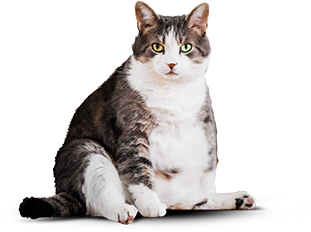
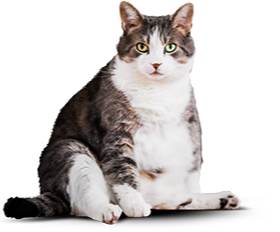
Исправил замечания в стилизации главной страницы

diff --git a/source/index.html b/source/index.html
@@ -2,6 +2,7 @@
 <html class="page" lang="ru">
   <head>
     <meta charset="utf-8">
+    <meta name="viewport" content="width=device-width, initial-scale=1">
     <title>HTML Academy: Кэт энерджи</title>
     <link rel="stylesheet" href="css/style.css">
   </head>
@@ -122,7 +123,7 @@
           </div>
           <div class="example__img">
             <img class="example__before" src="img/cat-after.png" width="251" height="240" alt="Кот до питания Cat Energy">
-            <img class="example__after" src="img/cat-before.png" width="311" height="232" alt="Кот после питания Cat Energy">
+            <img class="example__after" src="img/cat-before.png" width="280" height="232" alt="Кот после питания Cat Energy">
           </div>
           <div class="example__comparison">
             <span class="example__text">Было</span>
@@ -134,7 +135,7 @@
     </main>
 
     <footer class="page-footer">
-      <div class="page-footer__wrapper">
+      <div class="page-footer__top">
         <div class="page-footer__contacts">
           <p class="page-footer__invitation">
             Приглашаем<br>
@@ -146,9 +147,11 @@
             <span>Санкт-Петербург</span>
           </p>
         </div>
-        <div class="page-footer__map">
-          <img src="img/map-office.png" width="320" height="362" alt="Мы на карте">
-        </div>
+      </div>
+      <div class="page-footer__map">
+        <img src="img/map-office.png" width="320" height="362" alt="Мы на карте">
+      </div>
+      <div class="page-footer__bottom">
         <a class="page-footer__logo">
           <img src="img/footer__logo.svg" width="128" height="24" alt="Cat Energy">
         </a>

diff --git a/source/catalog.html b/source/catalog.html
@@ -2,6 +2,7 @@
 <html class="page" lang="ru">
   <head>
     <meta charset="utf-8">
+    <meta name="viewport" content="width=device-width, initial-scale=1">
     <title>HTML Academy: Кэт энерджи</title>
     <link rel="stylesheet" href="css/style.css">
   </head>
@@ -270,7 +271,7 @@
     </main>
 
     <footer class="page-footer">
-      <div class="page-footer__wrapper">
+      <div class="page-footer__top">
         <div class="page-footer__contacts">
           <p class="page-footer__invitation">
             Приглашаем<br>
@@ -282,9 +283,11 @@
             <span>Санкт-Петербург</span>
           </p>
         </div>
-        <div class="page-footer__map">
-          <img src="img/map-office.png" width="320" height="362" alt="Мы на карте">
-        </div>
+      </div>
+      <div class="page-footer__map">
+        <img src="img/map-office.png" width="320" height="362" alt="Мы на карте">
+      </div>
+      <div class="page-footer__bottom">
         <a class="page-footer__logo">
           <img src="img/footer__logo.svg" width="128" height="24" alt="Cat Energy">
         </a>

diff --git a/source/form.html b/source/form.html
@@ -2,6 +2,7 @@
 <html class="page" lang="ru">
   <head>
     <meta charset="utf-8">
+    <meta name="viewport" content="width=device-width, initial-scale=1">
     <title>HTML Academy: Кэт энерджи</title>
     <link rel="stylesheet" href="css/style.css">
   </head>
@@ -122,7 +123,7 @@
     </main>
 
     <footer class="page-footer">
-      <div class="page-footer__wrapper">
+      <div class="page-footer__top">
         <div class="page-footer__contacts">
           <p class="page-footer__invitation">
             Приглашаем<br>
@@ -134,9 +135,11 @@
             <span>Санкт-Петербург</span>
           </p>
         </div>
-        <div class="page-footer__map">
-          <img src="img/map-office.png" width="320" height="362" alt="Мы на карте">
-        </div>
+      </div>
+      <div class="page-footer__map">
+        <img src="img/map-office.png" width="320" height="362" alt="Мы на карте">
+      </div>
+      <div class="page-footer__bottom">
         <a class="page-footer__logo">
           <img src="img/footer__logo.svg" width="128" height="24" alt="Cat Energy">
         </a>

diff --git a/source/sass/blocks/example.scss b/source/sass/blocks/example.scss
@@ -8,7 +8,7 @@
 }
 
 .example__title {
-  font-family: 'Oswald';
+  font-family: "Oswald", sans-serif;
   font-weight: 400;
   font-size: 36px;
   line-height: 40px;
@@ -21,7 +21,7 @@
 }
 
 .example__value {
-  font-family: 'Oswald';
+  font-family: "Oswald", sans-serif;
   font-weight: 400;
   font-size: 24px;
   line-height: 24px;
@@ -34,15 +34,17 @@
 }
 
 .example__expenses {
-  font-family: 'Oswald';
+  font-family: "Oswald", sans-serif;
   font-weight: 400;
   font-size: 14px;
   line-height: 20px;
   text-transform: uppercase;
+  margin: 0;
+  text-align: center;
 }
 
 .example__text {
-  font-family: 'Oswald';
+  font-family: "Oswald", sans-serif;
   font-weight: 400;
   font-size: 16px;
   line-height: 20px;
@@ -51,8 +53,16 @@
 
 .example__before {
   display: none;
+  width: 100%;
+  object-fit: contain;
 }
 
 .example__after {
-  width: auto;
+  width: 100%;
+  object-fit: contain;
+}
+
+.example__comparison {
+  display: flex;
+  justify-content: center;
 }

diff --git a/source/sass/blocks/intro.scss b/source/sass/blocks/intro.scss
@@ -1,7 +1,8 @@
 .intro {
-  background-image: linear-gradient(rgba($basic_green, 0.85), rgba($basic_green, 0.85)), url('../../img/intro-background.jpg');
+  background-image: linear-gradient(rgba($basic_green, 0.85), rgba($basic_green, 0.85)), url("../../img/intro-background.jpg");
   background-repeat: no-repeat;
-  background-size: 100% 302px;
+  background-size: auto 302px;
+  background-position: top;
 }
 
 .intro__wrapper {
@@ -10,21 +11,25 @@
 }
 
 .intro__header {
-  font-family: 'Oswald';
+  font-family: "Oswald", sans-serif;
   font-weight: 400;
   color: $basic-white;
+  padding-top: 27px;
 }
 
 .intro__title {
   font-weight: 400;
   font-size: 36px;
   line-height: 36px;
+  margin: 0;
+  text-align: center;
 }
 
 .intro__slogan {
   font-size: 14px;
   line-height: 14px;
   text-transform: uppercase;
+  text-align: center;
 }
 
 .intro__button {

diff --git a/source/sass/global/fonts.scss b/source/sass/global/fonts.scss
@@ -1,19 +1,19 @@
 @font-face {
-  font-family: 'Oswald';
+  font-family: "Oswald";
   font-weight: 400;
   font-style: normal;
   font-display: swap;
   src:
-    url('../../fonts/oswaldregular.woff2') format("woff2"),
-    url('../../fonts/oswaldregular.woff') format("woff");
+    url("../../fonts/oswaldregular.woff2") format("woff2"),
+    url("../../fonts/oswaldregular.woff") format("woff");
 }
 
 @font-face {
-  font-family: 'Oswald';
+  font-family: "Oswald";
   font-weight: 500;
   font-style: normal;
   font-display: swap;
   src:
-    url('../../fonts/oswaldmedium.woff2') format("woff2"),
-    url('../../fonts/oswaldmedium.woff') format("woff");
+    url("../../fonts/oswaldmedium.woff2") format("woff2"),
+    url("../../fonts/oswaldmedium.woff") format("woff");
 }

diff --git a/source/sass/blocks/page-footer.scss b/source/sass/blocks/page-footer.scss
@@ -1,10 +1,11 @@
-.page-footer__wrapper {
+.page-footer__top,
+.page-footer__bottom {
   padding: 0 20px;
   margin: 0 auto;
 }
 
 .page-footer__invitation {
-  font-family: 'Oswald';
+  font-family: "Oswald", sans-serif;
   font-weight: 400;
   font-size: 16px;
   line-height: 18px;
@@ -17,9 +18,25 @@
   color: $special_dark-grey;
 }
 
+.page-footer__map {
+  img {
+    width: 100%;
+    object-fit: cover;
+  }
+}
+
+.page-footer__logo {
+  img {
+    display: block;
+    margin: 0 auto;
+  }
+}
+
 .page-footer__copyright {
   a {
-    color: $special_grey-2;
+    font-size: 16px;
+    line-height: 18.4px;
+    color: $special_dark-grey;
     text-decoration: none;
   }
 }

diff --git a/source/sass/blocks/programs.scss b/source/sass/blocks/programs.scss
@@ -1,6 +1,6 @@
 .programs__wrapper {
-    padding: 0 20px;
-    margin: 0 auto;
+  padding: 0 20px;
+  margin: 0 auto;
 }
 
 .programs__list {
@@ -13,7 +13,7 @@
 }
 
 .programs__title {
-  font-family: 'Oswald';
+  font-family: "Oswald", sans-serif;
   font-weight: 400;
   font-size: 24px;
   line-height: 37px;
@@ -27,7 +27,7 @@
 }
 
 .programs__link {
-  font-family: 'Oswald';
+  font-family: "Oswald", sans-serif;
   color: $basic-black;
   text-decoration: none;
   text-transform: uppercase;

diff --git a/source/sass/blocks/site-list.scss b/source/sass/blocks/site-list.scss
@@ -1,12 +1,16 @@
 .site-list {
   list-style: none;
   padding: 0;
+
   a {
-    font-family: 'Oswald';
+    display: block;
+    width: 100%;
+    font-family: "Oswald", sans-serif;
     font-weight: 500;
     font-size: 20px;
     line-height: 20px;
     text-transform: uppercase;
+    text-align: center;
     color: $basic-black;
     text-decoration: none;
   }

diff --git a/source/sass/blocks/button.scss b/source/sass/blocks/button.scss
@@ -1,11 +1,12 @@
 .button {
   display: inline-block;
   min-height: 40px;
-  padding: 8px 20px;
+  padding: 7px 20px;
   box-sizing: border-box;
-  font-family: 'Oswald';
+  font-family: "Oswald", sans-serif;
   font-weight: 400;
   font-size: 14px;
+  line-height: 24px;
   text-transform: uppercase;
   text-align: center;
   background-color: $basic-green;

diff --git a/source/sass/blocks/about-product.scss b/source/sass/blocks/about-product.scss
@@ -4,7 +4,7 @@
 }
 
 .about-product__title {
-  font-family: 'Oswald';
+  font-family: "Oswald", sans-serif;
   font-weight: 400;
   font-size: 36px;
   line-height: 40px;

diff --git a/source/sass/blocks/page.scss b/source/sass/blocks/page.scss
@@ -1,8 +1,7 @@
 .page {
   height: 100%;
-  width: 320px;
   font-size: 16px;
-  font-family: 'Arial';
+  font-family: "Arial", sans-serif;
   line-height: 24px;
 }
 
